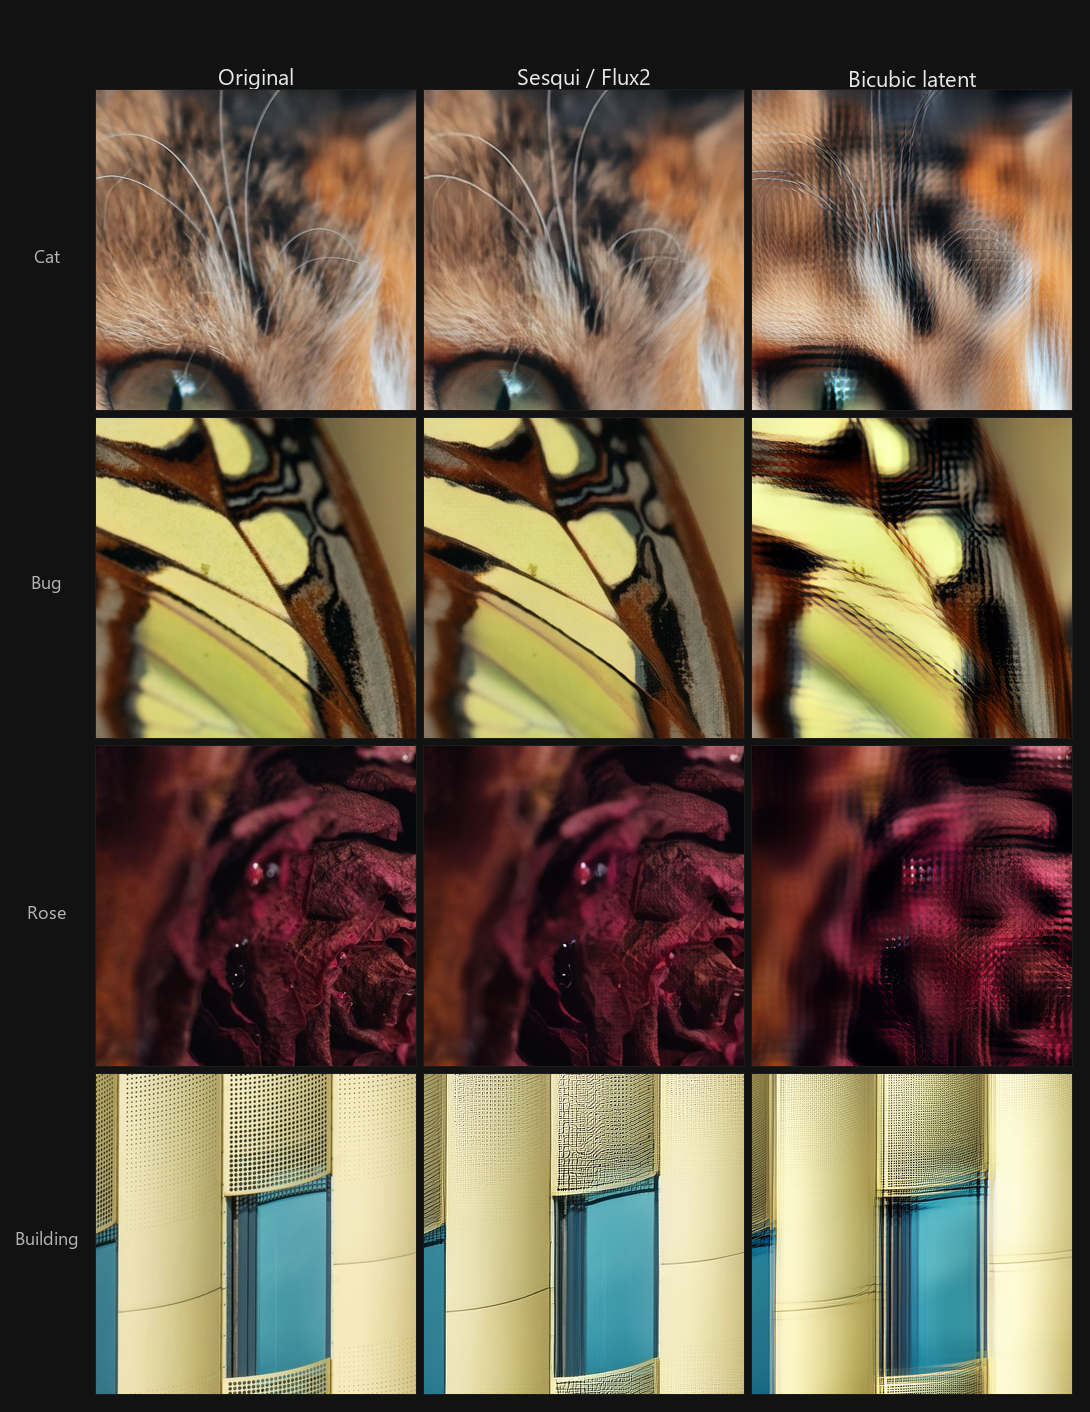
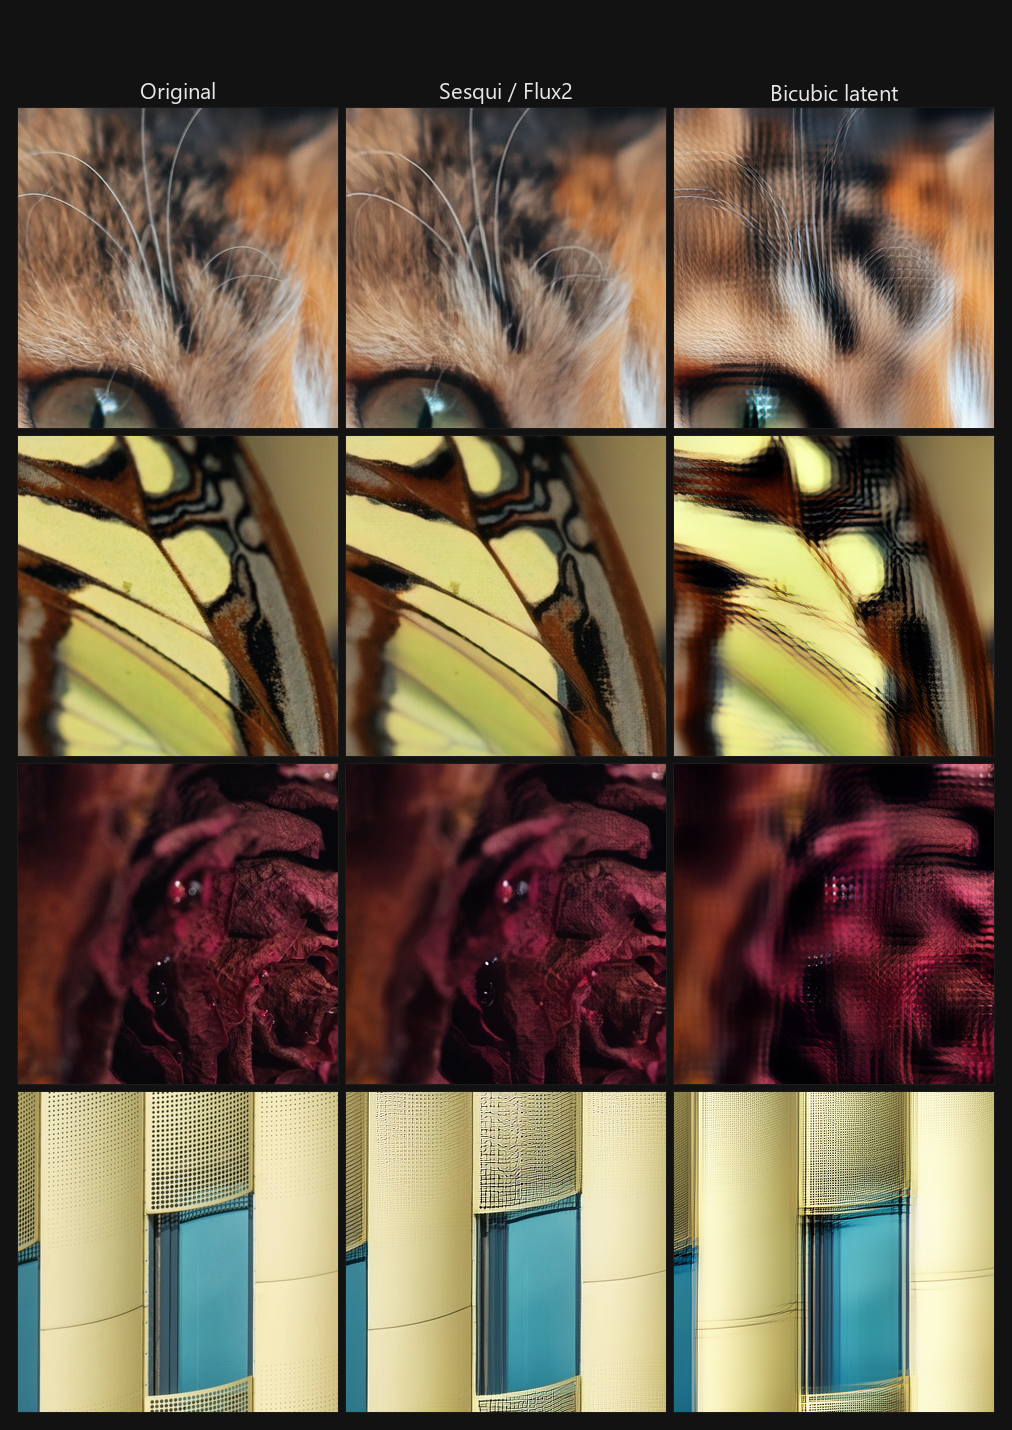
Fix outdated metrics/Flux2 comparison image, update ComfyUI node info

diff --git a/README.md b/README.md
@@ -88,10 +88,10 @@ Each test image is Lanczos-downsampled to the low-resolution size, encoded to a 
 
 | Model | Sesqui LPIPS ↓ | Bicubic LPIPS ↓ | Improvement |
 |---|---:|---:|---:|
-| SDXL | 0.1485 | 0.4677 | 68% lower |
-| Flux | 0.1138 | 0.3392 | 66% lower |
-| Flux2 | 0.0807 | 0.1997 | 60% lower |
-| Wan 2.1 | 0.1058 | 0.2155 | 51% lower |
+| SDXL | 0.1249 | 0.4484 | 72% lower |
+| Flux | 0.0974 | 0.2915 | 67% lower |
+| Flux2 | 0.0587 | 0.1732 | 66% lower |
+| Wan 2.1 | 0.0919 | 0.1909 | 52% lower |
 
 ### SDXL comparison with other latent upscalers
 
@@ -123,7 +123,7 @@ Sesqui is capable of substantially cleaner output than the SDXL comparison table
 
 ![Flux2 quality comparison 2.0x](benchmark/images/flux2_quality_2.0x.png)
 
-Again, Sesqui favours perceptual detail (texture) over strict pixel accuracy (structure), hence the weaker reconstruction of the fine grid in the building image, but excellent results in the other three crops.
+At 2.0×, Sesqui scores LPIPS 0.1031 versus 0.2817 for bicubic latent upscaling (63% lower). Again, Sesqui favours perceptual detail (texture) over strict pixel accuracy (structure), hence the weaker reconstruction of the fine grid in the building image, but excellent results in the other three crops.
 
 ## Training
 
@@ -141,10 +141,11 @@ Total training time and steps varies from model to model; the shortest being 50 
 
 ## ComfyUI node parameters
 
-- **model_format**: The model family / VAE type. **Must match the incoming latent.**
-  - `SDXL`: 4-channel latents.
-  - `Flux`: 16-channel latents (covers Flux, Lumina 2, Z-Image).
-  - `Flux2`: 128-channel packed latents.
-  - `Wan 2.1`: 16-channel latents (covers Wan 2.x, Anima, Qwen Image).
-- **scale**: Target scale factor between [1.0, 2.0].
+- **model_format**: The VAE latent configuration. **Must match the incoming latent.**
+  - `SDXL`: SDXL only; not compatible with SD 1.5.
+  - `Flux`: Flux, Z-Image Turbo, Lumina.
+  - `Flux2`: Flux2, Flux2 Klein; BN-packed latent.
+  - `Ideogram 4`: Flux2 VAE; shift/scale-packed latent.
+  - `Wan 2.1`: Wan 2.x, Krea 2, Anima, Qwen Image.
+- **scale**: Target scale factor between [1.0, 2.0]. Default `1.5`, step `0.05`.
 - **half_precision**: Default `on`. Loads the upscaler model in bf16 (fp16 if unsupported). Half-precision has no effect on quality and should be left on, however the setting is available for debugging purposes.
